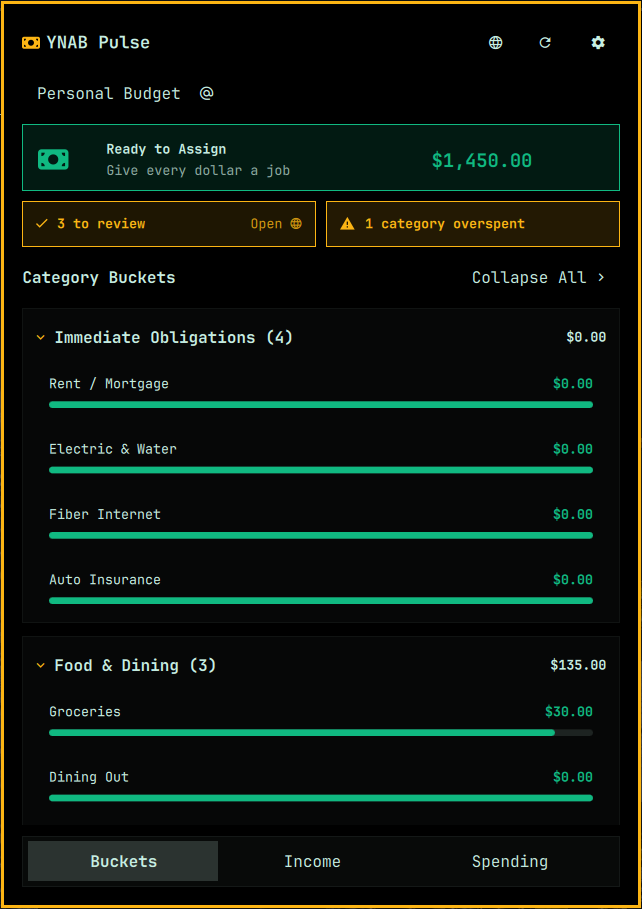
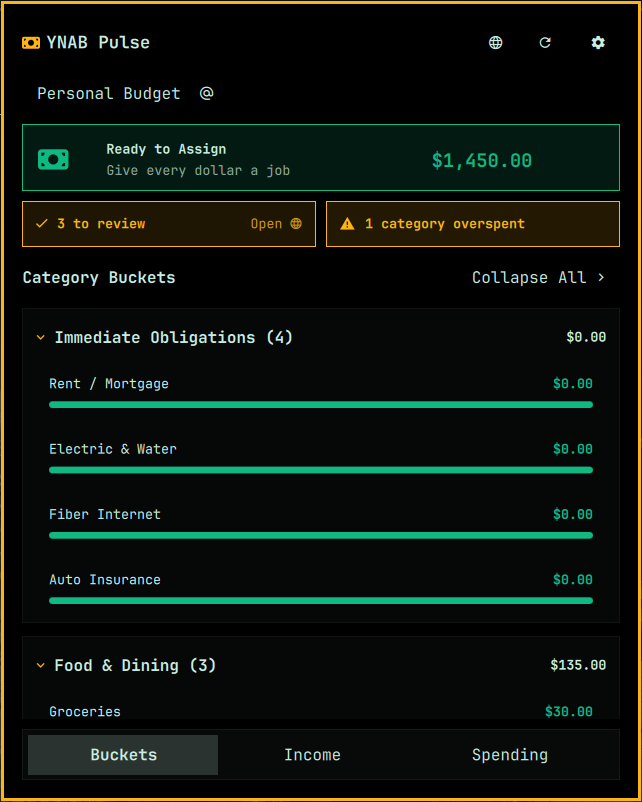
fix(panel): try a 600px card height
680 left unused space under the income trend. 600 still keeps the
month labels on screen without scrolling.

diff --git a/tests/panel-layout.test.js b/tests/panel-layout.test.js
@@ -20,8 +20,8 @@ check("card width uses KeyboardPanel.fittedContentWidth",
   /contentWidth:\s*keyboardPanel\.fittedContentWidth\(Style\.space\(480\)\)/.test(panel),
   "expected contentWidth: keyboardPanel.fittedContentWidth(Style.space(480))")
 check("card height uses KeyboardPanel.cappedContentHeight",
-  /contentHeight:\s*keyboardPanel\.cappedContentHeight\(Style\.space\(680\)\)/.test(panel),
-  "expected contentHeight: keyboardPanel.cappedContentHeight(Style.space(680))")
+  /contentHeight:\s*keyboardPanel\.cappedContentHeight\(Style\.space\(600\)\)/.test(panel),
+  "expected contentHeight: keyboardPanel.cappedContentHeight(Style.space(600))")
 check("panel does not reimplement availableCard* clamping",
   !/availableCardWidth/.test(panel) && !/availableCardHeight/.test(panel),
   "hand-rolled availableCard* clamp is still in Panel.qml")

diff --git a/Panel.qml b/Panel.qml
@@ -174,7 +174,7 @@ Panel {
     owner: root.barIdentity
     open: root.opened
     contentWidth: keyboardPanel.fittedContentWidth(Style.space(480))
-    contentHeight: keyboardPanel.cappedContentHeight(Style.space(680))
+    contentHeight: keyboardPanel.cappedContentHeight(Style.space(600))
     focusTarget: keyCatcher
 
     PanelKeyCatcher {
